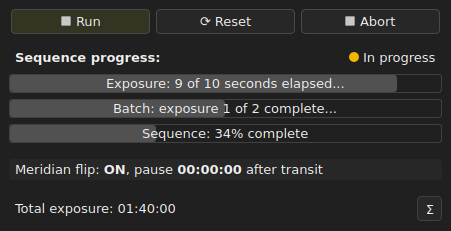
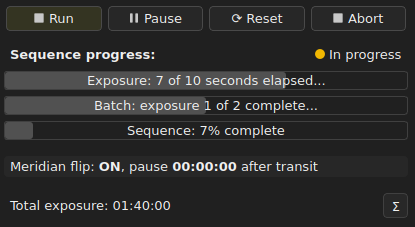
update documents

diff --git a/ain_users_guide/ain_v2_users_guide.md b/ain_users_guide/ain_v2_users_guide.md
@@ -279,9 +279,11 @@ The sequence being edited or loaded will be uploaded to the *Scripting Agent* on
 
 **NOTE:** Loading a sequence from a file or downloading it from the agent will replace the current sequence and unsaved changes will be lost.
 
-### Start, Abort, Reset and sequence progress monitoring
+### Start, Pause, Reset, Abort and sequence progress monitoring
 
 The current sequence can be started with the **Run** button. This will also upload the current sequence to the *Scripting Agent* as described above.
+
+**Pause** will wait for the current action or exposure to complete and will pause the execution of the sequence before the next action begins. Actions are considered atomic operations from the sequencer's point of view and cannot be paused in the middle of their execution. The only exception is the **Capture Batch** action, which can be paused between individual exposures within the batch.
 
 The **Abort** button will stop the current sequence. The completed actions will be decorated with green while the aborted one will be decorated red. 
 
